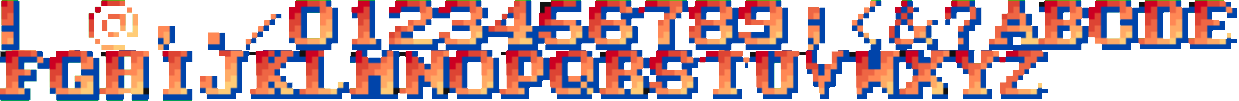
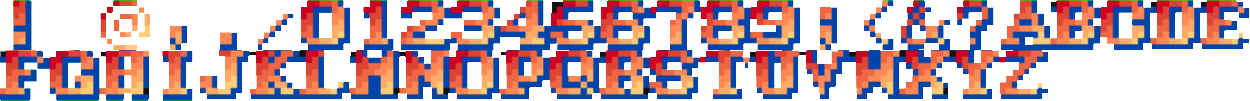
Font at the works but fully implemented

diff --git a/Projecte_Oficial/ModulePlayer.cpp b/Projecte_Oficial/ModulePlayer.cpp
@@ -6,7 +6,8 @@
 #include "ModuleParticles.h"
 #include "ModulePlayer.h"
 #include "Animation.h"
-
+#include "ModuleFonts.h"
+#include <stdio.h>
 // Reference at https://www.youtube.com/watch?v=OEhmUuehGOA
 
 int speed = 1;
@@ -18,6 +19,7 @@ ModulePlayer::ModulePlayer()
 	
 	position.x = 100;
 	position.y = 220;
+	score = 0;
 
 	// idle animation (arcade sprite sheet)
 	idle.PushBack({7, 14, 60, 90});
@@ -105,6 +107,8 @@ bool ModulePlayer::Start()
 
 	// TODO 7.2: Add a collider to the player
 	player_collider = App->collision->AddCollider({ position.x, position.y - 100, 60, 93 }, COLLIDER_PLAYER, App->player);
+
+	font_score = App->fonts->Load("Fonts/font1.png", "! @,./0123456789;<&?abcdefghijklmnopqrstuvwxyz", 2);
 
 	return ret;
 }
@@ -204,7 +208,11 @@ update_status ModulePlayer::Update()
 	// Draw everything --------------------------------------
 	SDL_Rect r = current_animation->GetCurrentFrame();
 
+	sprintf_s(score_text, 10, "%7d", score);
+
 	App->render->Blit(graphics, position.x, position.y - r.h, &r);
+
+	App->fonts->BlitText(100, 100, font_score, "helloworld");
 	
 	return UPDATE_CONTINUE;
 }

diff --git a/Projecte_Oficial/Application.cpp b/Projecte_Oficial/Application.cpp
@@ -15,7 +15,7 @@
 #include "ModuleStartScreen.h"
 #include "ModuleWarningScreen.h"
 #include "ModuleWinScreen.h"
-
+#include "ModuleFonts.h"
 Application::Application()
 {
 	modules[0] = window = new ModuleWindow();
@@ -34,6 +34,7 @@ Application::Application()
 	modules[13] = particles = new ModuleParticles();
 	modules[14] = collision = new ModuleCollision();
 	modules[15] = fade = new ModuleFadeToBlack();
+	modules[16] = fonts = new ModuleFonts();
 
 }	
 

diff --git a/Projecte_Oficial/Application.h b/Projecte_Oficial/Application.h
@@ -3,7 +3,7 @@
 
 #include "Globals.h"
 
-#define NUM_MODULES 16
+#define NUM_MODULES 17
 
 class ModuleWindow;
 class ModuleInput;
@@ -21,6 +21,7 @@ class ModuleIcoinScreen;
 class ModuleStartScreen;
 class ModuleWarningScreen;
 class ModuleWinScreen;
+class ModuleFonts;
 
 class Module;
 
@@ -46,6 +47,7 @@ public:
 	ModuleStartScreen* start_screen;
 	ModuleWinScreen * win_screen;
 	ModuleCongratScreen * congrat_screen;
+	ModuleFonts* fonts;
 
 public:
 

diff --git a/Projecte_Oficial/ModulePlayer.h b/Projecte_Oficial/ModulePlayer.h
@@ -23,6 +23,9 @@ public:
 
 	SDL_Texture* graphics = nullptr;
 	Animation * current_animation = nullptr;
+	int font_score = -1;
+	char score_text[10];
+	uint score = 0;
 	Animation idle;
 	Animation forward;
 	Animation backward;
